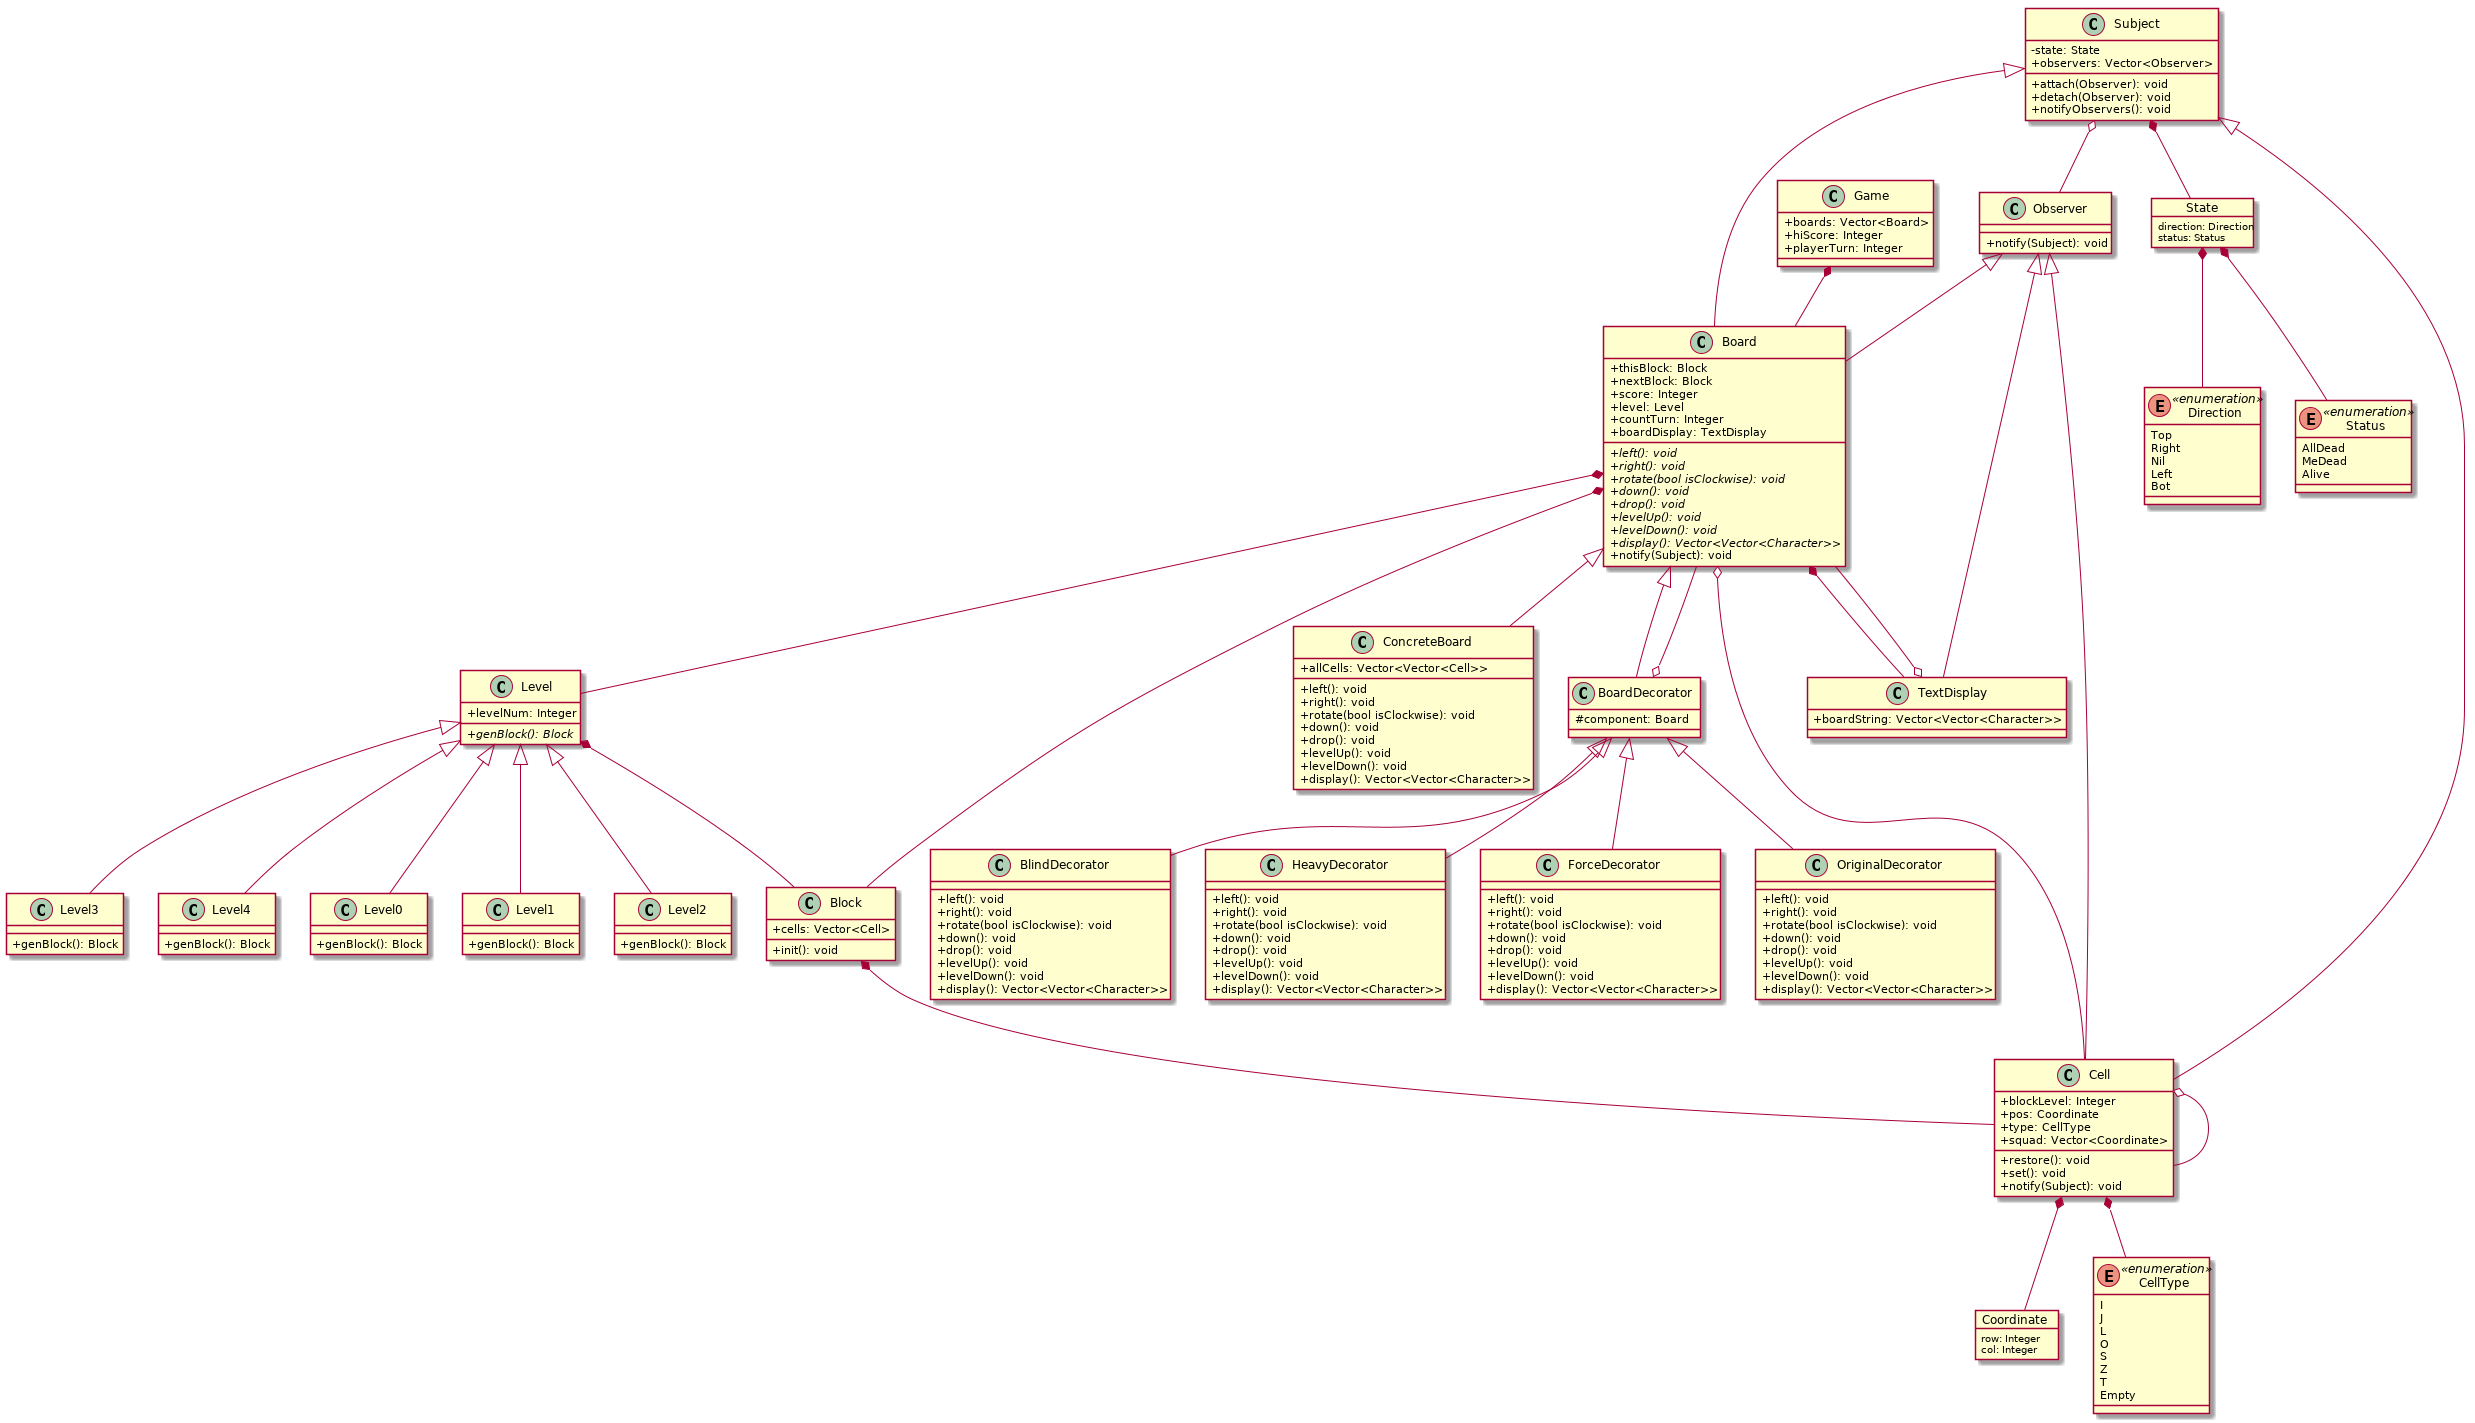
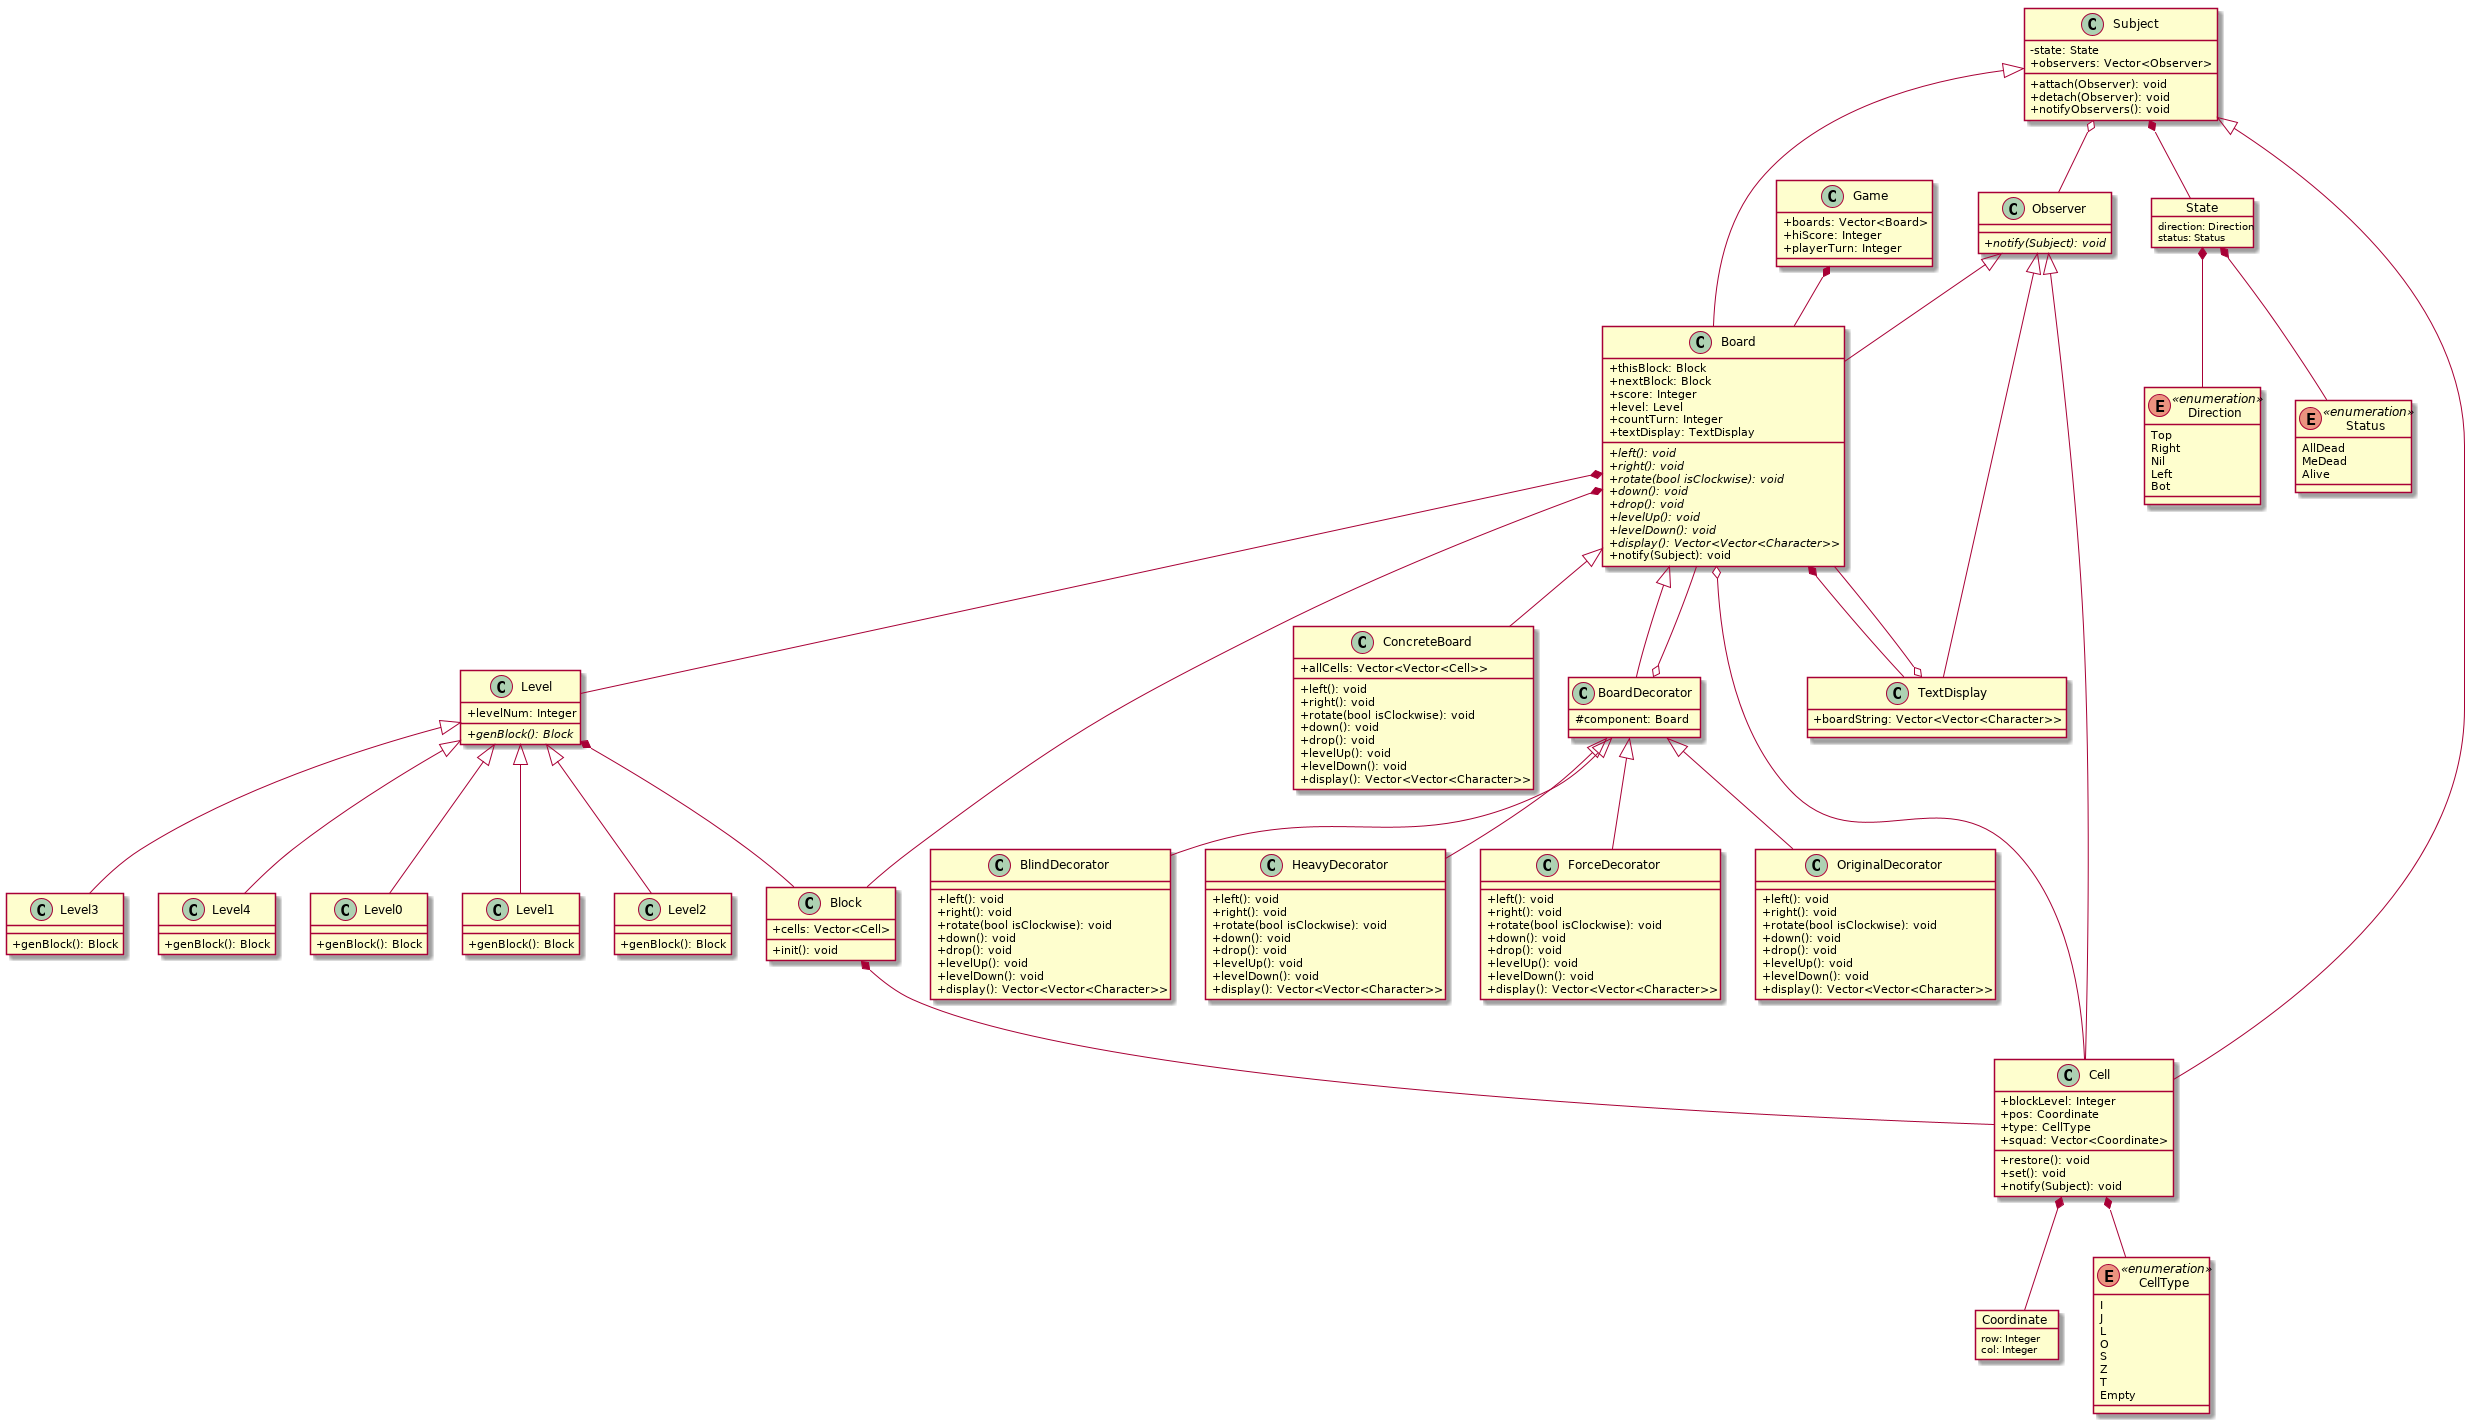
Add some header files

diff --git a/board.h b/board.h
@@ -1,0 +1,26 @@
+#ifndef _BOARD_H_
+#define _BOARD_H_
+#include <vector>
+#include "block.h"
+#include "subject.h"
+
+class Board {
+    Block thisBlock;
+    Block nextBlock;
+    int score;
+    Level level;
+    int countTurn;
+    TextDisplay textDisplay;
+
+    virtual void left();
+    virtual void right();
+    virtual void rotate(bool isClockwise);
+    virtual void down();
+    virtual void drop();
+    virtual void levelUp();
+    virtual void levelDown();
+    virtual std::vector<std::vector<char>> display();
+    virtual void notify(Subject s);
+
+    virtual ~Board() = 0;
+};

diff --git a/cell.h b/cell.h
@@ -1,0 +1,20 @@
+#ifndef _CELL_H_
+#define _CELL_H_
+#include <vector>
+#include "subject.h"
+#include "observer.h"
+#include "coordinate.h"
+
+class Cell: public Observer, public Subject {
+    public:
+    Coordinate pos;
+    int blockLevel;
+    CellType type;
+    Coordinate** squad;
+
+    void restore();
+    void set(CellType t, int bl, Coordinate** squad);
+    void notifySubject();
+};
+
+#endif

diff --git a/subject.h b/subject.h
@@ -1,0 +1,16 @@
+#ifndef _SUBJECT_H_
+#define _SUBJECT_H_
+#include <vector>
+#include "state.h"
+#include "observer.h"
+
+class Subject {
+    State state;
+    std::vector<std::vector<Observer*>> observers;
+
+    void attach(Observer* o);
+    void detach(Observer* o);
+    void notifyObservers();
+};
+
+#endif

diff --git a/cell.cc b/cell.cc
@@ -1,0 +1,13 @@
+#include "cell.h"
+
+void Cell::restore() {
+    blockLevel = 0;
+    type = CellType::E;
+    squad = nullptr;
+}
+
+void Cell::set(CellType t, int bl, Coordinate** s) {
+    type = t;
+    bl = blockLevel;
+    squad = s;
+}

diff --git a/state.h b/state.h
@@ -1,0 +1,16 @@
+enum Status{
+    AllDead, MeDead, Alive
+};
+
+enum CellType {
+    I, J, L, O, S, Z, T, E
+};
+
+enum Direction {
+    Top, Right, Nil, Left, Bottom
+};
+
+struct State {
+    Direction direction;
+    Status status;
+};

diff --git a/game.h b/game.h
@@ -1,0 +1,13 @@
+#ifndef _GAME_H_
+#define _GAME_H_
+#include <vector>
+#include "board.h"
+
+class Game {
+    std::vector<Board*> boards;
+    int hiScore;
+    int playerTurn;
+    Game();
+};
+
+#endif

diff --git a/block.h b/block.h
@@ -1,0 +1,13 @@
+#ifndef _CELL_H_
+#define _CELL_H_
+#include <vector>
+#include "cell.h"
+
+class Block {
+    public:
+    Block();
+    Cell** cells;
+    void init();
+};
+
+#endif

diff --git a/observer.h b/observer.h
@@ -1,0 +1,9 @@
+#ifndef _OBSERVER_H_
+#define _OBSERVER_H_
+#include "subject.h"
+
+class Observer {
+    virtual void notify(Subject s) = 0;
+};
+
+#endif

diff --git a/block.cc b/block.cc
@@ -1,0 +1,9 @@
+#include "block.h"
+
+Block::Block(){
+    cells = nullptr;
+}
+
+void Block::init(){
+    cell
+}

diff --git a/coordinate.h b/coordinate.h
@@ -1,0 +1,3 @@
+struct Coordinate {
+    int row, col;
+};
